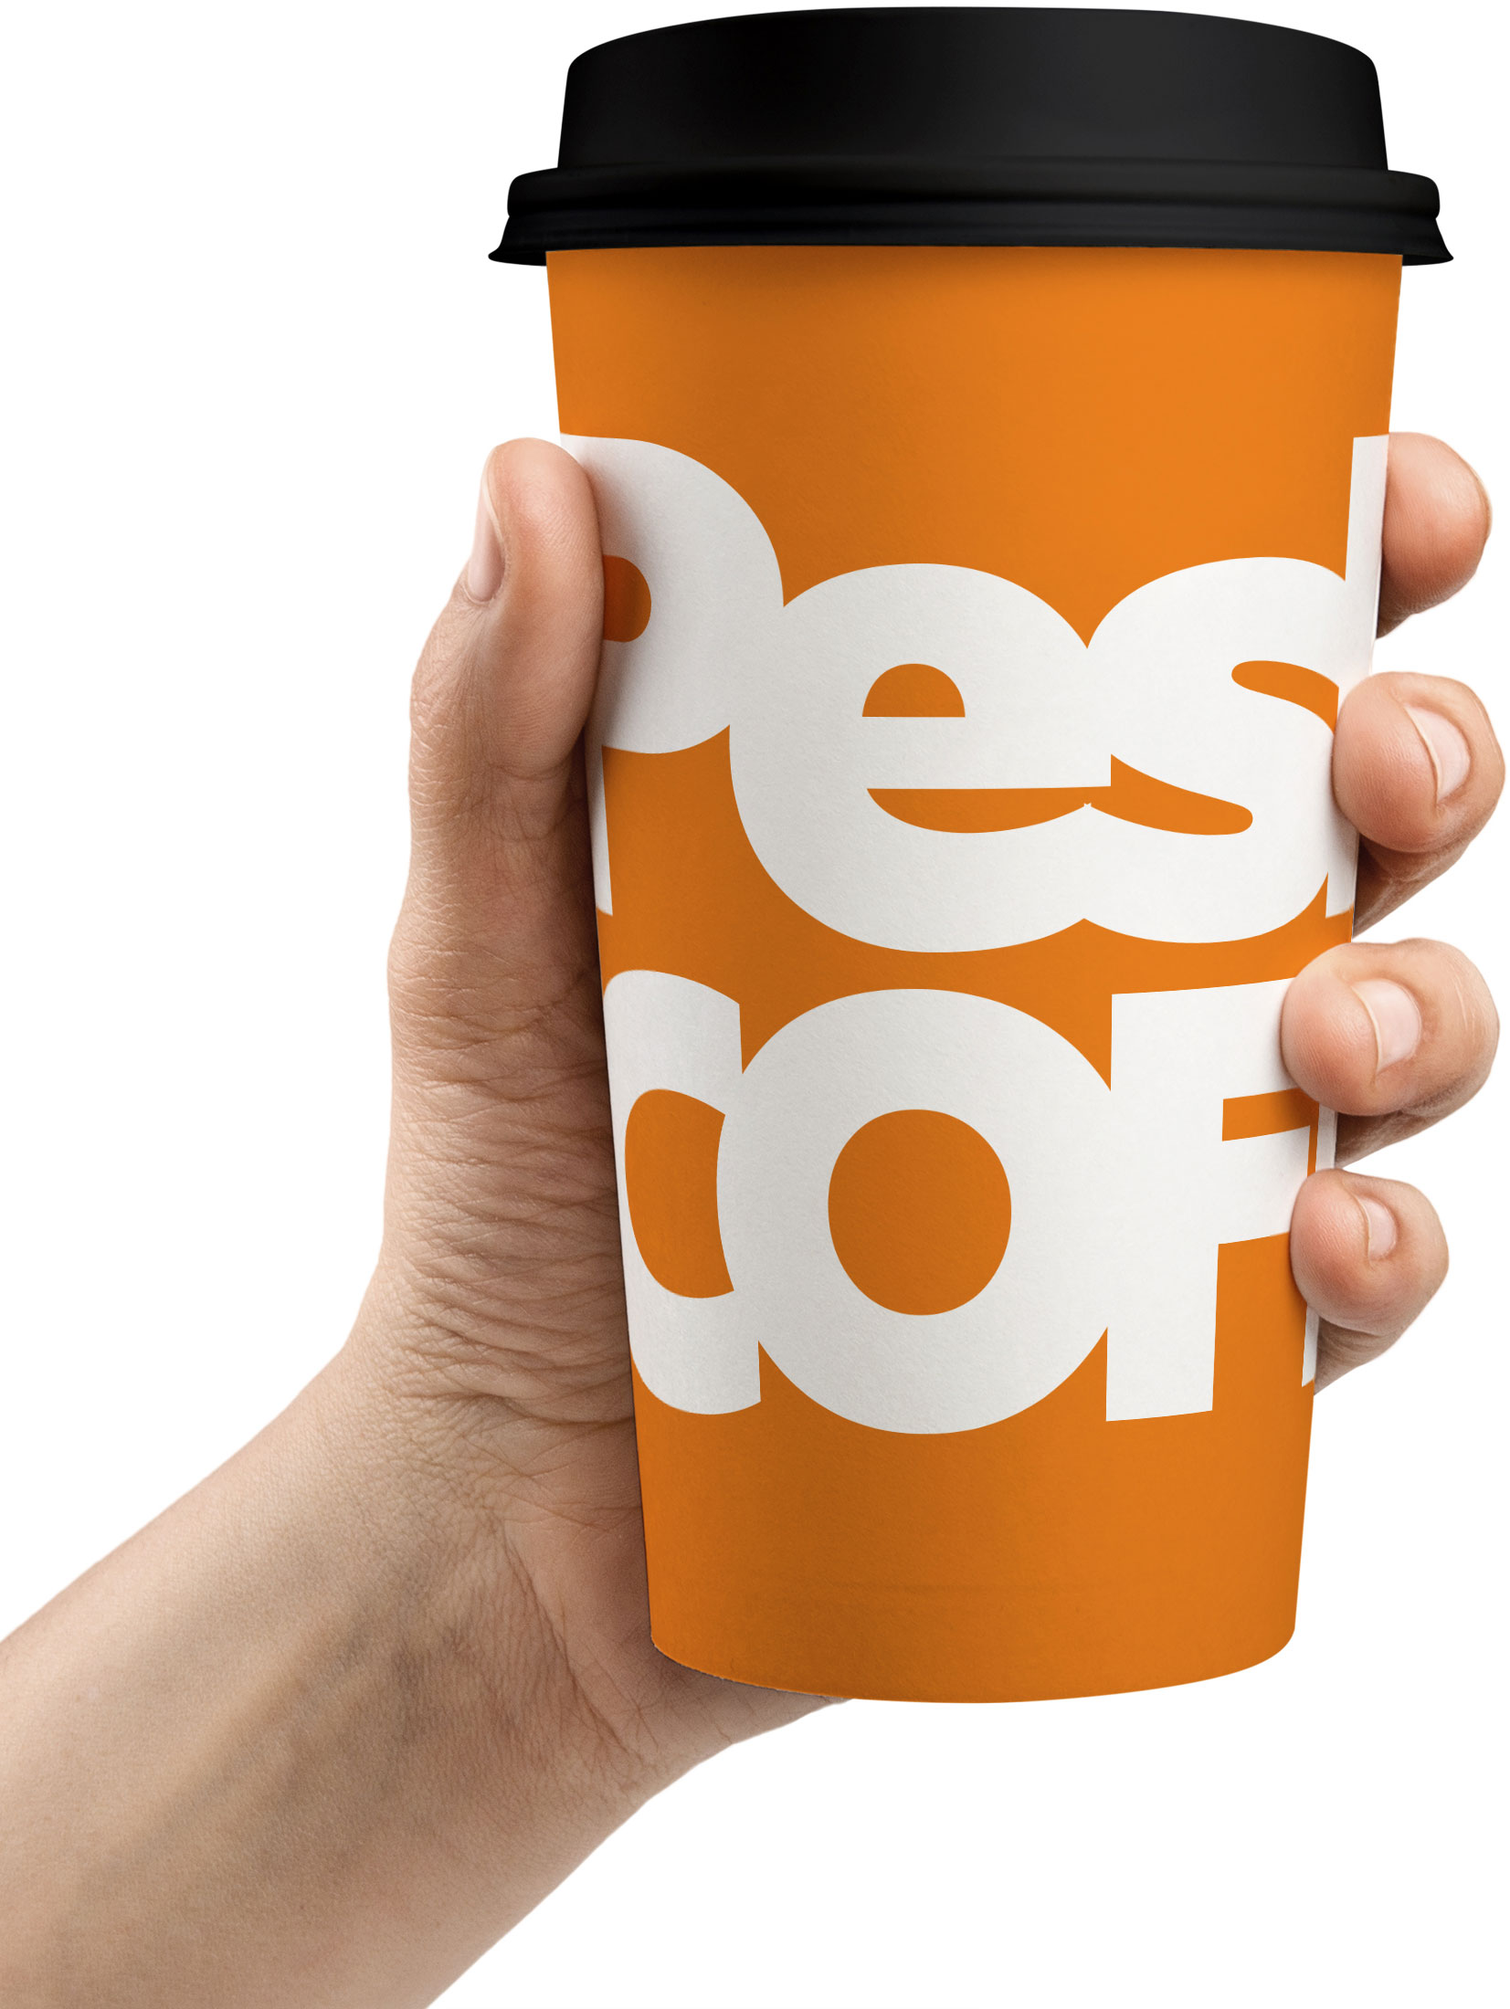
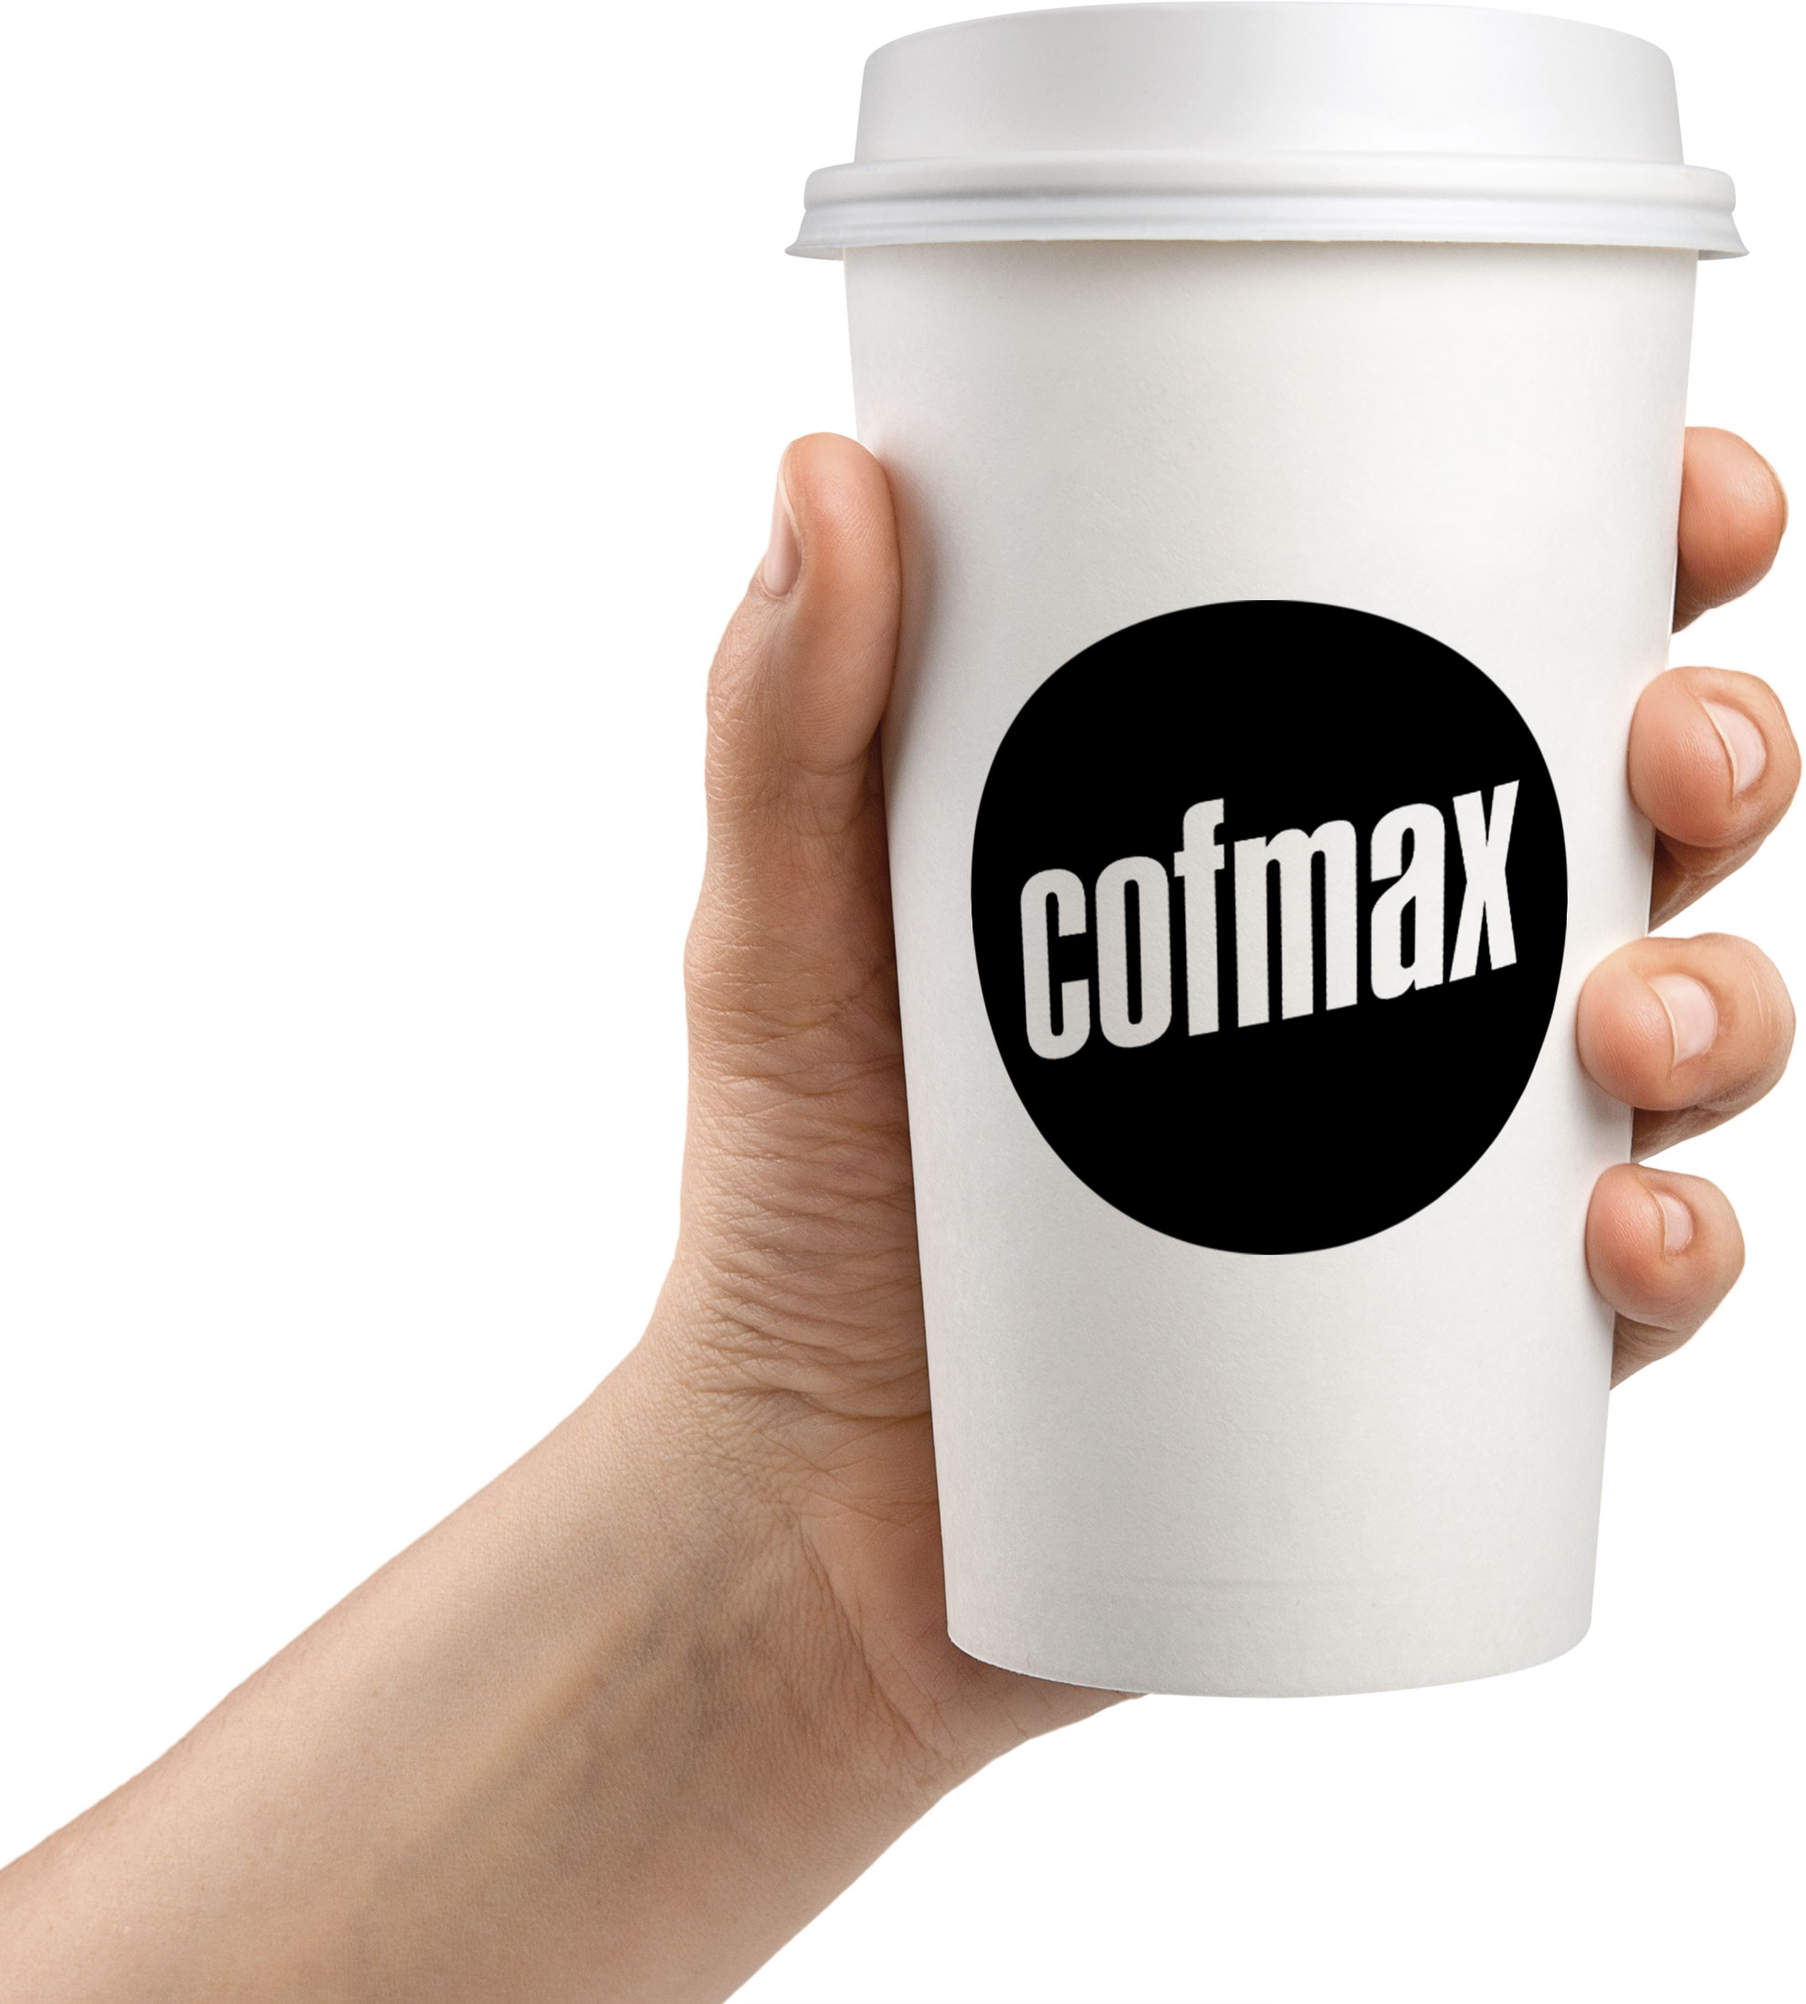
Add files via upload

diff --git a/style.css b/style.css
@@ -11,10 +11,11 @@ body {
     position: relative;
 }
 .wrapper>img {
-    width: 33%;
+    width: auto;
     position: absolute;
     left: 0;
     bottom: 0;
+    height: 95%
 }
 .container {
     width: 70%;
@@ -27,25 +28,19 @@ body {
 .container>div {
     width: auto;
 }
+.container>div>img {
+    width: 5.5em;
+    margin-bottom: .5em
+}
 h1 {
-    font-family: 'Geometria-Heavy';
-    font-size: 2.4em;
-    position: relative;
+    font-family: '18046';
+    font-size: 1.2em;
     margin: 0 0 .5em;
     padding: 0;
 }
-h1:before {
-    position: absolute;
-    content: '';
-    left: -1.7em;
-    top: .3em;
-    width: 1.5em;
-    height: .75em;
-    background: url(/logo.png) center/100% 99% no-repeat
-}
 .container p {
-    margin: 0 0 1em;
-    font-size: 1em
+    margin: 0 0 .8em;
+    font-size: .72em
 }
 .container p a {
     color: #000;
@@ -53,43 +48,48 @@ h1:before {
 }
 
 @media screen and (max-width: 768px) {
-    .wrapper>img {
-    width: 60%;
+   body {
+    padding: 0;
+    margin: 0;
+    font-size: 18px;
+    font-family: 'Geometria';
+}
+.wrapper>img {
+    width: auto;
     position: absolute;
     left: 0;
     bottom: 0;
+    height: 45%
 }
 .container {
-    width: 100%;
+    width: 85%;
     margin: 0 auto;
     display: flex;
-    justify-content: flex-end;
+    justify-content: center;
     align-items: flex-start;
     height: 100%;
-    flex-wrap: wrap;
 }
 .container>div {
     width: 100%;
+    margin-top: 10px;
     position: relative;
-    z-index: 2;
-    margin-top: 40px;
-    padding-left: 20%
+    z-index: 2
+}
+.container>div>img {
+    width: 80px;
+    margin-bottom: .5em
 }
 h1 {
-    font-size: 30px;
-    position: relative;
+    font-size: 1em;
     margin: 0 0 .5em;
     padding: 0;
 }
-h1:before {
-    left: -1.7em;
-    top: .3em;
-    width: 1.5em;
-    height: .75em;
-    background: url(/logo.png) center/100% 99% no-repeat
-}
 .container p {
-    margin: 0 0 12px;
-    font-size: 18px
+    margin: 0 0 .8em;
+    font-size: .8em
+}
+.container p a {
+    color: #000;
+    text-decoration: none;
 }
 }

diff --git a/index.html b/index.html
@@ -2,7 +2,7 @@
 <html lang="ru">
 <head>
     <meta charset="UTF-8">
-    <title>PeshCOFF</title>
+    <title>coofmax</title>
     <meta http-equiv="X-UA-Compatible" content="IE=edge" />
     <meta name="viewport" content="width=device-width, initial-scale=1.0" />
     <meta name="description" content="" />
@@ -14,13 +14,16 @@
     <div class="wrapper">
         <img src="/img.jpg" alt="">
         <div class="container">
-<!--            <img src="/img.jpg" alt="">-->
             <div>
-                <h1>PeshCOFF</h1>
-                <p>Сеть кофеен <br>пешеходной доступности</p>
-                <p><a href="mailto:info@peshcoff.ru">info@peshcoff.ru</a></p>
+                <img src="/logo.png" alt="">
+                <h1>Получай удовольствие!</h1>
+                <p>Управление проектами:</p>
+                <p><a href="" style="border-bottom: 1px solid">formacoffee.ru</a><br>
+                <a href="http://peshcoff.ru/" style="border-bottom: 1px solid">peshcoff.ru</a></p>
+                <p>г. Нижний Новгород, <br>ул. Белинского, д. 110, п. 30</p>
                 <p><a href="tel:+78002017139">8(800) 201 71 39</a></p>
-                <p><a href="" style="border-bottom: 1px solid">@peshcoff</a></p>
+                <p><a href="mailto:info@peshcoff.ru">info@cofmax.ru</a></p>
+                <p><a href="" style="border-bottom: 1px solid">@cofmax</a></p>
             </div>
         </div>
     </div>
